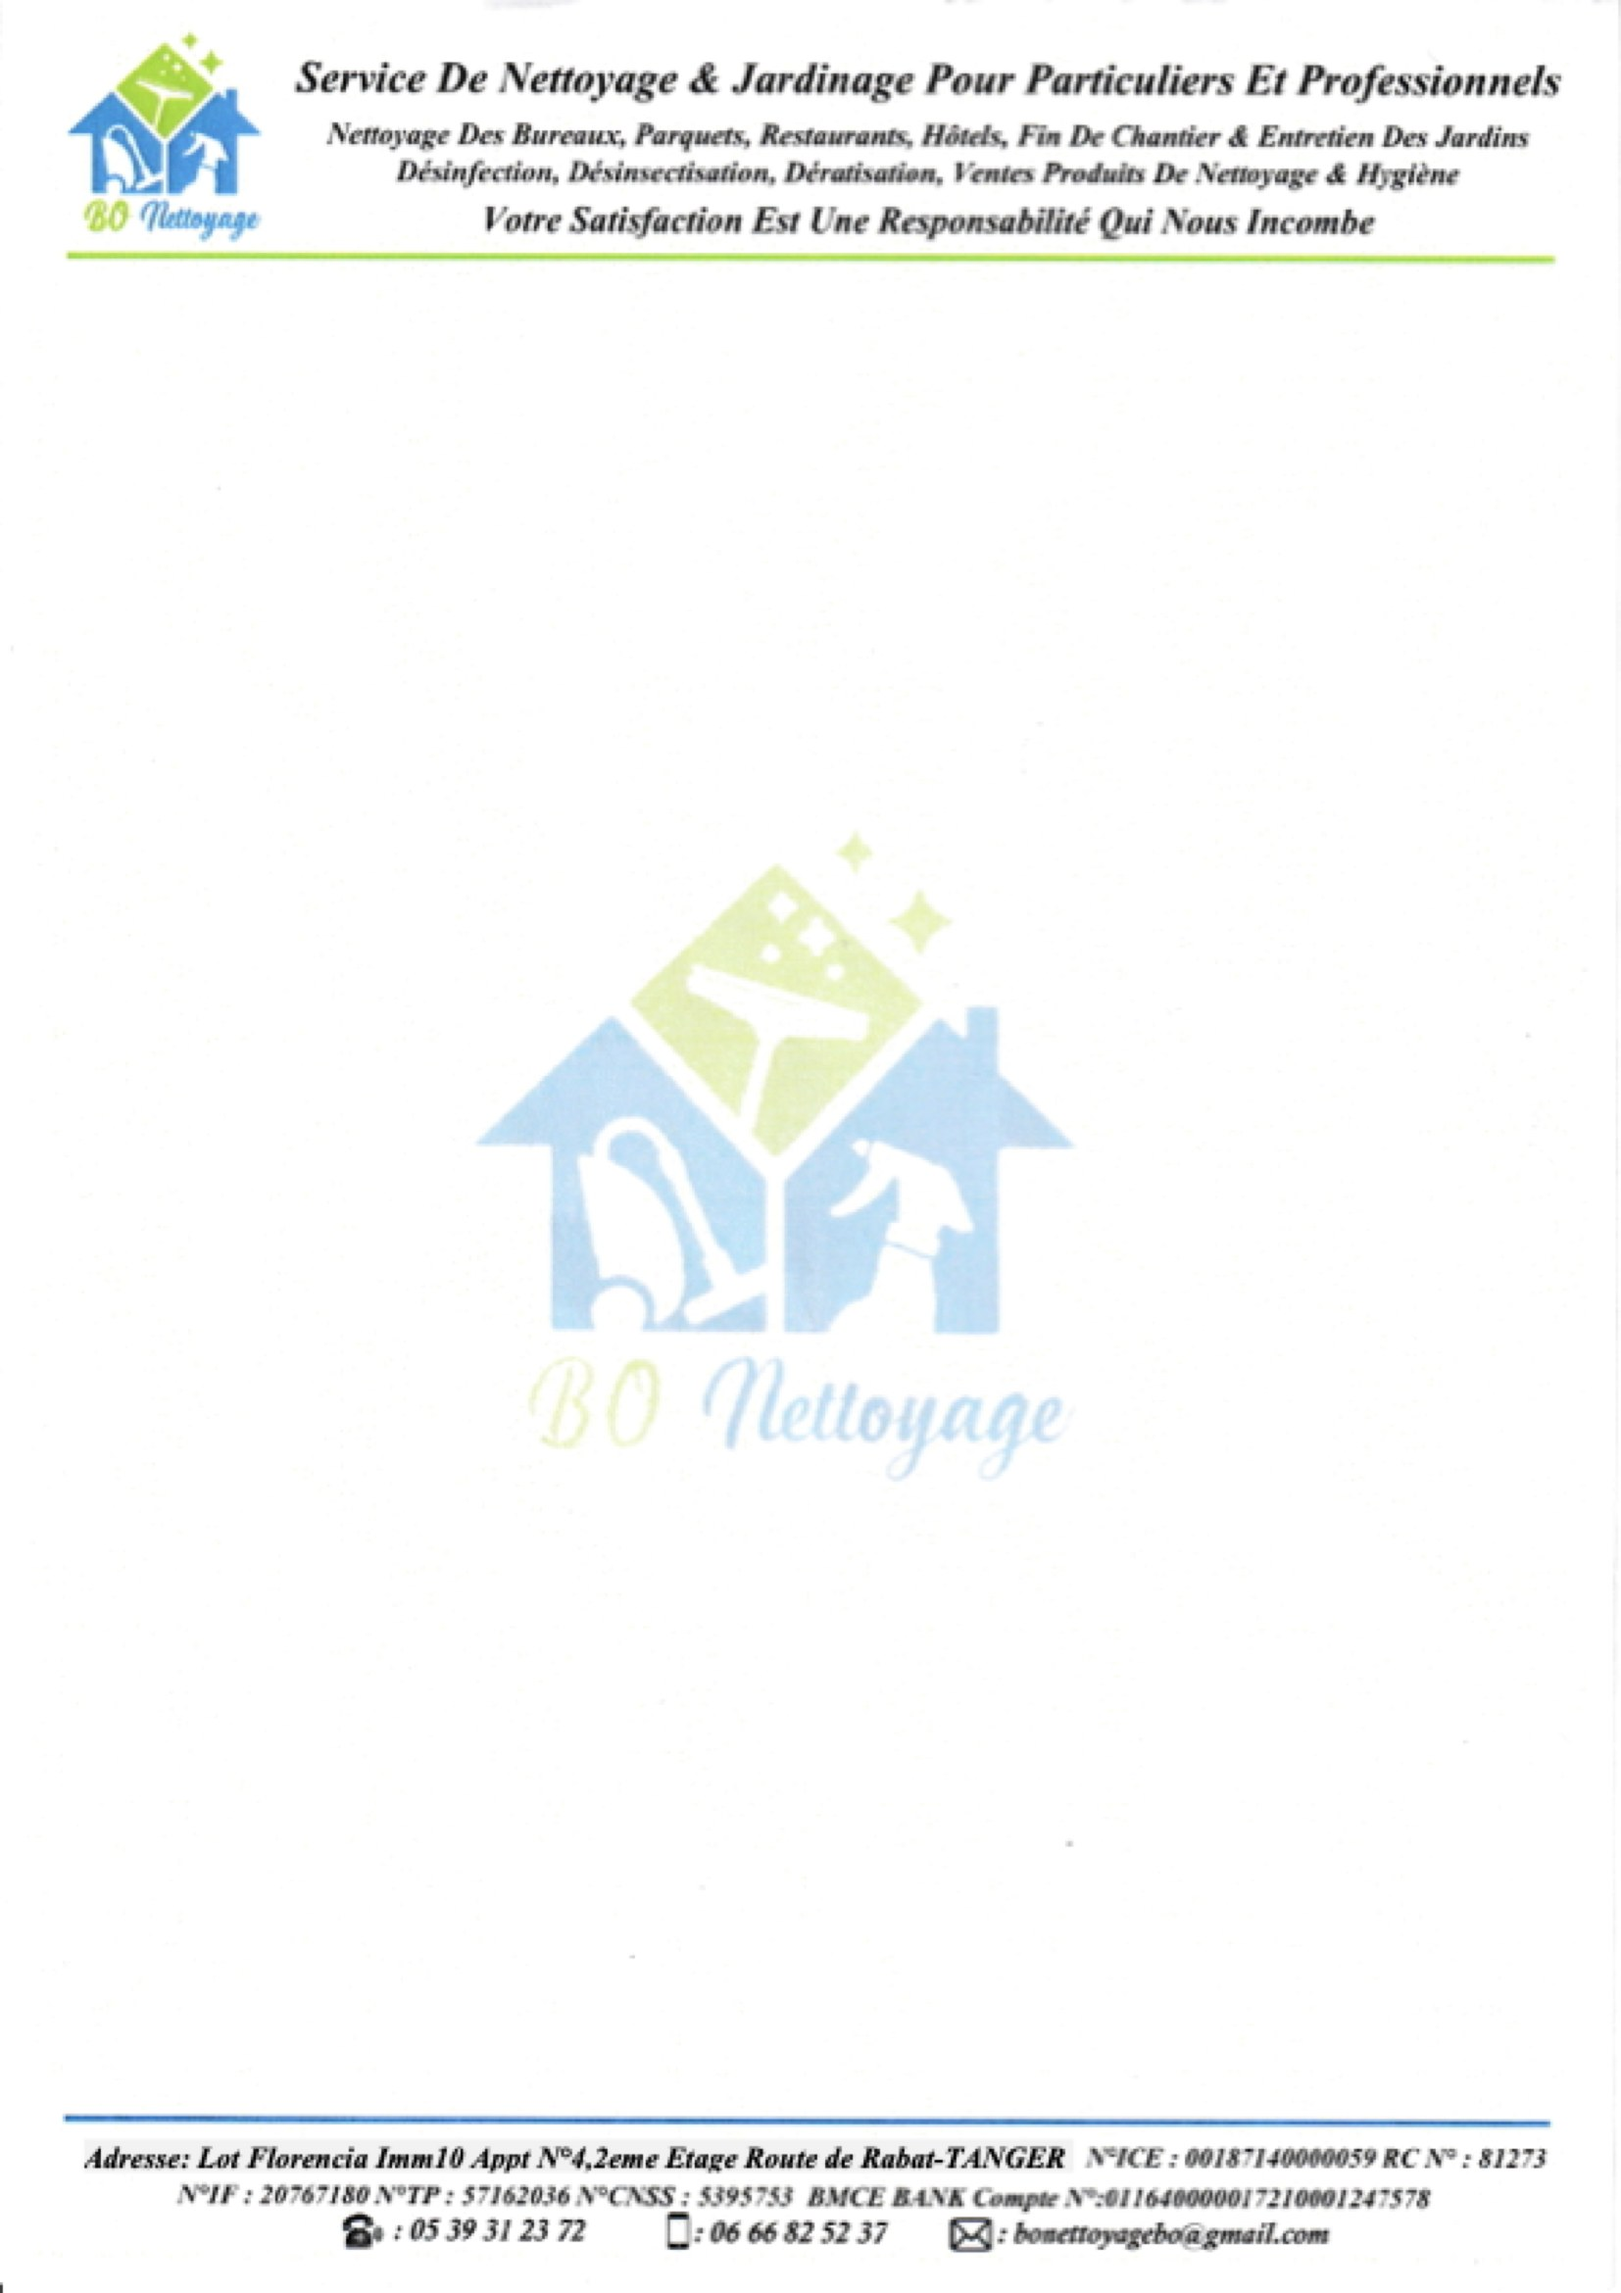
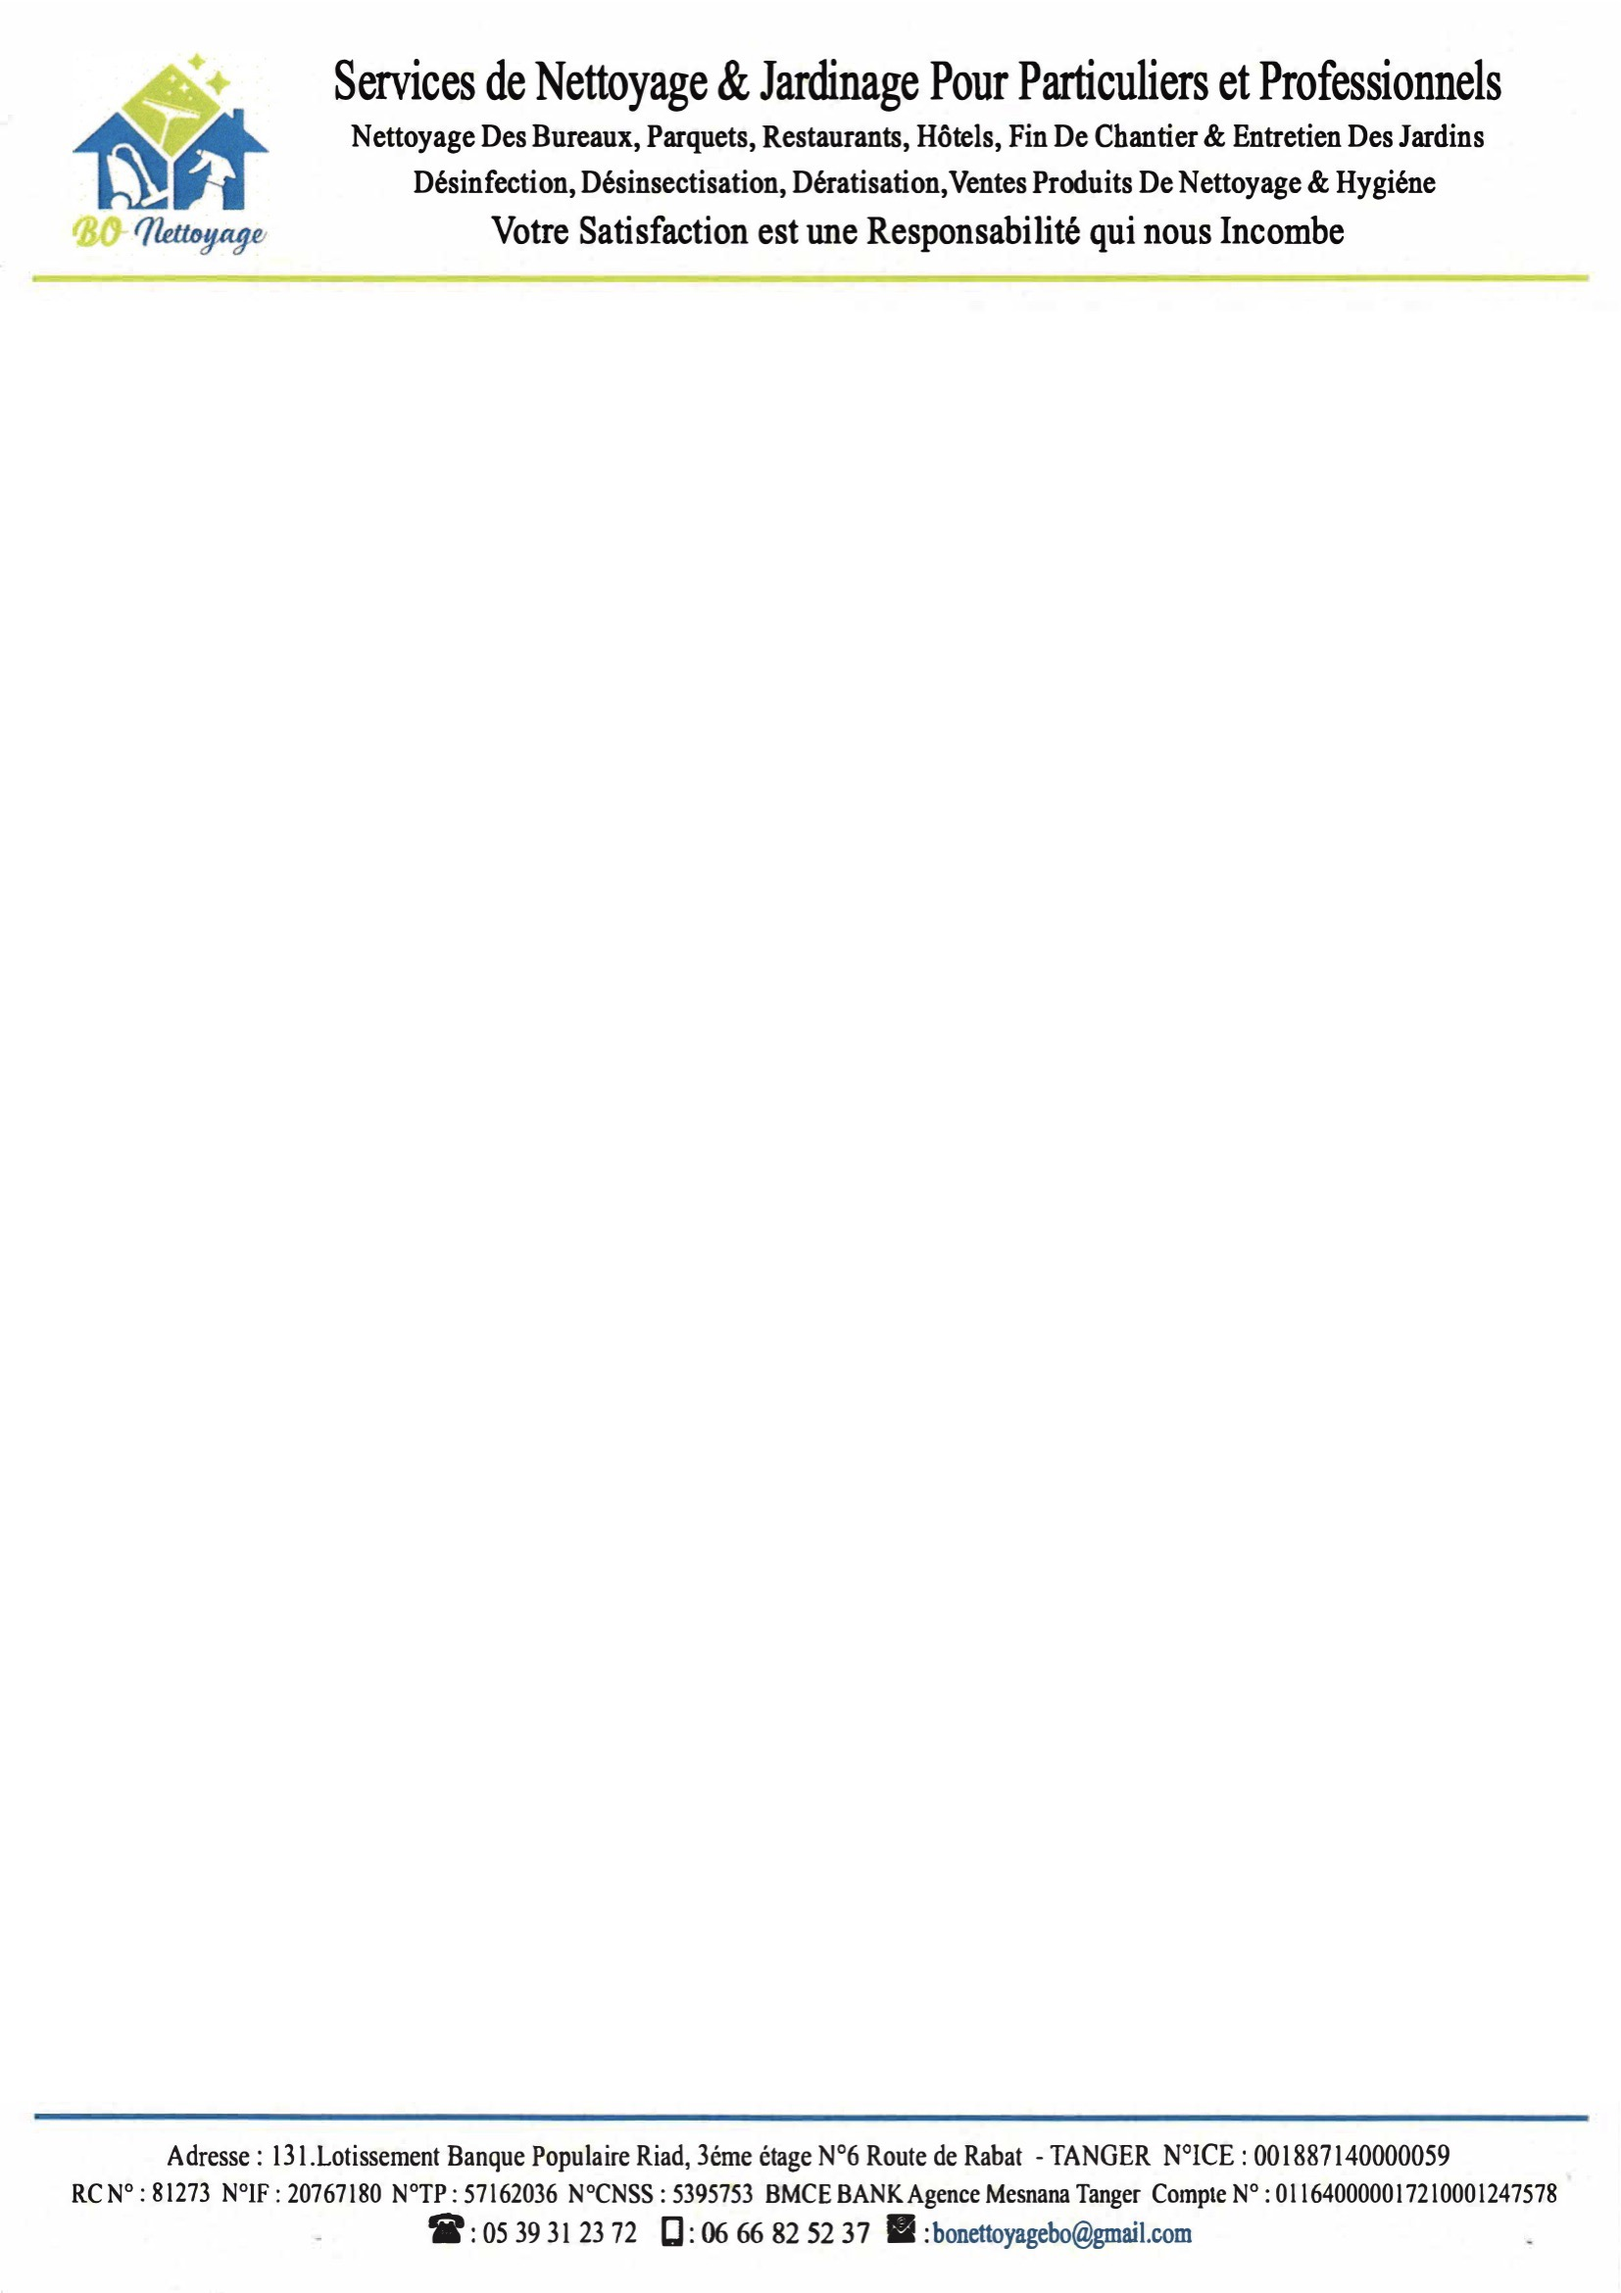
Les papiers à en-tête remis à jour, et Exseria avec
Les huit papiers refaits remplacent les anciens. La bande libre a été
remesurée sur chacun : plusieurs en-têtes ont grandi, plusieurs pieds
sont remontés, et Serclean porte maintenant un losange qui monte
jusqu'à 247 mm.

Exseria Groupe arrive avec le sien : douzième société, sans logo en
fichier propre pour l'instant.

diff --git a/src/lib/entetes.ts b/src/lib/entetes.ts
@@ -60,7 +60,7 @@ export interface PiedDePage {
 
 const ENTETES: Record<string, Entete> = {
   'EDEN VERT SERVICE': {
-    papier: { image: '/lettres/eden-vert-service.jpg', haut: 56, bas: 271 },
+    papier: { image: '/lettres/eden-vert-service.jpg', haut: 53, bas: 271 },
     logo: '/entetes/eden-vert-service.png',
     accent: '#366d81',
   },
@@ -72,17 +72,17 @@ const ENTETES: Record<string, Entete> = {
     accent: '#0f2155',
   },
   'GROUPE TRIPLE A': {
-    papier: { image: '/lettres/groupe-triple-a.jpg', haut: 44, bas: 268 },
+    papier: { image: '/lettres/groupe-triple-a.jpg', haut: 43, bas: 271 },
     logo: '/entetes/groupe-triple-a.png',
     accent: '#94040d',
   },
   BO: {
-    papier: { image: '/lettres/bo.jpg', haut: 39, bas: 269 },
+    papier: { image: '/lettres/bo.jpg', haut: 40, bas: 271 },
     logo: '/entetes/bo.png',
     accent: '#0c6aa4',
   },
   TRIMAX: {
-    papier: { image: '/lettres/trimax.jpg', haut: 49, bas: 265 },
+    papier: { image: '/lettres/trimax.jpg', haut: 46, bas: 265 },
     logo: '/entetes/trimax.png',
     accent: '#171b32',
   },
@@ -104,19 +104,28 @@ const ENTETES: Record<string, Entete> = {
     },
   },
   'DUO MULTI SERVICE': {
-    papier: { image: '/lettres/duo-multi-service.jpg', haut: 35, bas: 261 },
+    papier: { image: '/lettres/duo-multi-service.jpg', haut: 32, bas: 262 },
     logo: '/entetes/duo-multi-service.png',
     accent: '#a8070c',
   },
   'NORD PLANET': {
-    papier: { image: '/lettres/nord-planet.jpg', haut: 45, bas: 269 },
+    papier: { image: '/lettres/nord-planet.jpg', haut: 43, bas: 271 },
     logo: '/entetes/nord-planet.png',
     accent: '#006f9d',
   },
   'SERCLEAN NEGOCE': {
-    papier: { image: '/lettres/serclean-negoce.jpg', haut: 48, bas: 239 },
+    papier: { image: '/lettres/serclean-negoce.jpg', haut: 46, bas: 245 },
     logo: '/entetes/serclean-negoce.png',
     accent: '#2c2667',
+  },
+  // Arrivée avec son papier seul : le logo n'existe pas encore en
+  // fichier propre, son en-tête tient donc sur sa couleur et son nom.
+  'EXSERIA GROUPE': {
+    // Le bas remonte haut : les losanges d'or et de gris du pied
+    // mordent sur la page bien avant les mentions légales.
+    papier: { image: '/lettres/exseria.jpg', haut: 37, bas: 263 },
+    logo: null,
+    accent: '#846c24',
   },
   // Son papier nous est venu en scan : le fond porte quelques grains de
   // gris, et le logo n'existe pas encore en fichier propre. Le document
@@ -128,7 +137,7 @@ const ENTETES: Record<string, Entete> = {
   },
   // Le logo porte « MEGAINTER », la base « MEGANTER » : c'est bien la même société.
   'MEGAINTER SERVICE MAROC': {
-    papier: { image: '/lettres/meganter-service-maroc.jpg', haut: 59, bas: 274 },
+    papier: { image: '/lettres/meganter-service-maroc.jpg', haut: 56, bas: 274 },
     logo: '/entetes/meganter-service-maroc.png',
     accent: '#616364',
   },
@@ -183,6 +192,8 @@ const ALIAS: Record<string, string> = {
   'COOPERATIVE EDEN VERT SERVICE': 'EDEN VERT SERVICE',
   'TRIMAX SURVEILLANCE': 'TRIMAX',
   'VIGILMA GARD': 'VIGILMA GARD MAROC',
+  EXSERIA: 'EXSERIA GROUPE',
+  'TRAITEUR AYA SARL': 'TRAITEUR AYA',
 }
 
 const PAR_CLE = new Map(Object.entries(ENTETES).map(([k, v]) => [cle(k), v]))
